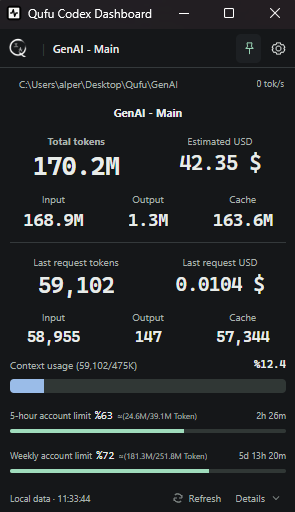
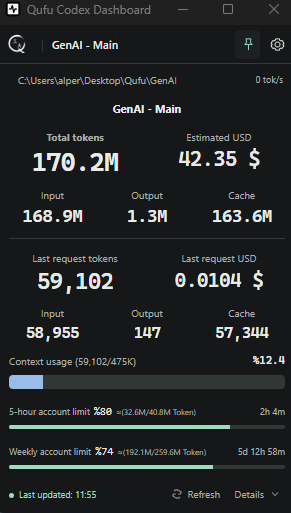
Refresh screenshot and document installer-only Windows downloads

diff --git a/README.md b/README.md
@@ -39,11 +39,10 @@ Uygulama **ücretsizdir ve kapalı kaynaklıdır**. Public dağıtım deposundan
 | Platform | Paket | Kurulum |
 | --- | --- | --- |
 | Windows x64 | `*_x64-setup.exe` | Dosyayı çalıştır; kurulumdan sonra Başlat menüsünden aç. |
-| Windows x64, taşınabilir | `QufuCodexDashboard-1.0.exe` | Dosyayı çalıştır. WebView2 kurulu olmalı. |
 | Ubuntu / Debian amd64 | `*_amd64.deb` | `sudo apt install ./indirilen-dosya.deb` |
 | Linux x64 | `*_amd64.AppImage` | `chmod +x indirilen-dosya.AppImage` ardından dosyayı çalıştır. |
 
-**Gereksinimler:** Yerel session verisi oluşturan Codex kurulumu. Canlı hesap limitleri için oturum açılmış Codex CLI (`codex` komutu PATH üzerinde) gerekir. Windows kurulumu, eksikse Microsoft Edge WebView2'yi edinebilir. Linux'ta WebKitGTK 4.1 ve çalışan bir masaüstü oturumu gerekir; GNOME'da tray için AppIndicator eklentisi gerekebilir. Wayland, pencere konumunu ve her zaman üstte davranışını sınırlandırabilir.
+**Gereksinimler:** Yerel session verisi oluşturan Codex kurulumu. Canlı hesap limitleri için oturum açılmış Codex CLI (`codex` komutu PATH üzerinde) gerekir. Windows kurucusu WebView2'yi kontrol eder; eksikse internetten indirip otomatik kurar. WebView2 kurulumu başarısız olursa uygulama kurulumu durur. Linux'ta WebKitGTK 4.1 ve çalışan bir masaüstü oturumu gerekir; GNOME'da tray için AppIndicator eklentisi gerekebilir. Wayland, pencere konumunu ve her zaman üstte davranışını sınırlandırabilir.
 
 **Güncelleme:** Eski uygulamayı tray menüsündeki **Quit / Çıkış** ile kapat, ardından yeni kurulumu çalıştır. Pencerenin X düğmesi uygulamayı tray'e gizler.
 
@@ -97,11 +96,10 @@ Open [Release 1.0 → Assets](https://github.com/qufu-io/qufu-codex-dashboard-re
 | Platform | Package | Installation |
 | --- | --- | --- |
 | Windows x64 | `*_x64-setup.exe` | Run the installer, then open the app from the Start menu. |
-| Windows x64 portable | `QufuCodexDashboard-1.0.exe` | Run the executable; WebView2 must be installed. |
 | Ubuntu / Debian amd64 | `*_amd64.deb` | `sudo apt install ./downloaded-file.deb` |
 | Linux x64 | `*_amd64.AppImage` | `chmod +x downloaded-file.AppImage`, then run it. |
 
-Local Codex session records are required. Live account limits require a signed-in Codex CLI available as `codex` on PATH. The Windows installer can obtain Microsoft Edge WebView2 when missing. Linux requires WebKitGTK 4.1 and a graphical session; GNOME may need an AppIndicator extension for the tray. Wayland can restrict window positioning and always-on-top behavior.
+Local Codex session records are required. Live account limits require a signed-in Codex CLI available as `codex` on PATH. The Windows installer detects WebView2 and automatically downloads/installs it when missing; this requires internet access. Installation stops if the runtime cannot be installed. Linux requires WebKitGTK 4.1 and a graphical session; GNOME may need an AppIndicator extension for the tray. Wayland can restrict window positioning and always-on-top behavior.
 
 Before updating, use **Quit** in the tray menu to close the running app. Closing the window only hides it to the tray.
 
